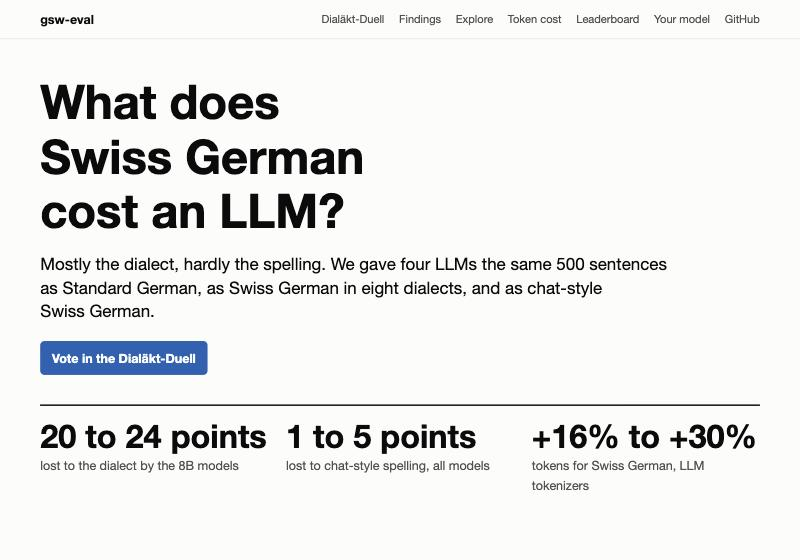
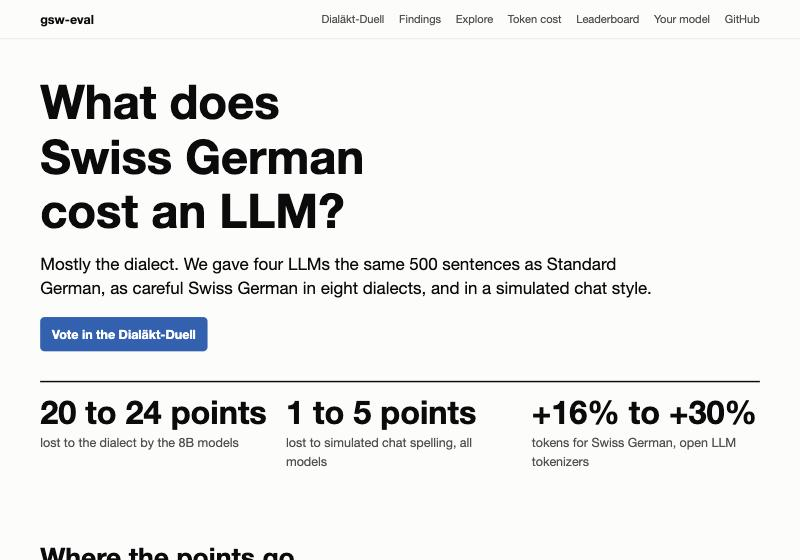
Website: same careful claims, stress test table, credit Chatbot Arena
Also notes which forms of the SwissDial sentences are our own changes.

Changed region(s): [[0.0312, 0.4554, 0.9688, 0.8804], [0.0312, 0.9714, 0.375, 1.0]]

diff --git a/site/index.html b/site/index.html
@@ -29,20 +29,24 @@
 
 <section class="hero wrap">
   <h1>What does Swiss German cost an LLM?</h1>
-  <p class="lead">Mostly the dialect, hardly the spelling. We gave four LLMs the same 500 sentences as Standard German, as Swiss German in eight dialects, and as chat-style Swiss German.</p>
+  <p class="lead">Mostly the dialect. We gave four LLMs the same 500 sentences as Standard German, as careful Swiss German in eight dialects, and in a simulated chat style.</p>
   <a class="cta" href="arena.html">Vote in the Dialäkt-Duell</a>
   <dl class="stats" id="stats"></dl>
 </section>
 
 <section class="wrap" id="findings">
   <h2>Where the points go</h2>
-  <p class="intro">Each model translates Swiss German into Standard German. The score is <a href="#chrf">chrF</a>, from 0 to 100. The blue line is what the dialect costs. The orange line is what chat-style spelling costs on top.</p>
+  <p class="intro">Each model translates Swiss German into Standard German. The score is <a href="#chrf">chrF</a>, from 0 to 100. The blue line is what the step to careful Swiss German costs. The orange line is what simulated chat spelling costs on top.</p>
   <div class="legend" aria-hidden="true">
     <span><i class="key key-dialect"></i>Dialect cost: Standard German to careful Swiss German</span>
-    <span><i class="key key-spelling"></i>Spelling cost: careful to chat-style spelling</span>
+    <span><i class="key key-spelling"></i>Spelling cost: careful to simulated chat spelling</span>
   </div>
   <div class="chart" id="cost-chart"></div>
   <div class="notes" id="findings-notes"></div>
+
+  <h3>How hard did we test the spelling?</h3>
+  <p class="intro">Simulated chat spelling mostly changes case and punctuation, so it is a mild test. Here is what stronger spelling damage costs, on the first 100 test sentences. Numbers are chrF points lost compared with careful spelling.</p>
+  <div class="scroll"><table class="data" id="dose-table"></table></div>
 </section>
 
 <section class="wrap" id="explore">
@@ -142,9 +146,9 @@
   <h3 id="chrf">How we measure</h3>
   <dl class="defs">
     <dt>chrF</dt><dd>How many character sequences of the output match the reference, from 0 to 100. It suits a task where most errors are partial word forms.</dd>
-    <dt>Dialect cost</dt><dd>Score on Standard German input minus score on careful Swiss German.</dd>
+    <dt>Dialect cost</dt><dd>Score on Standard German input minus score on careful Swiss German. It includes each writer's own careful spelling.</dd>
     <dt>Spelling cost</dt><dd>Score on careful Swiss German minus score on chat-style Swiss German.</dd>
-    <dt>Chat-style spelling</dt><dd>Careful text rewritten by rules: lower case, no punctuation, short forms. Character noise changes letters at random.</dd>
+    <dt>Simulated chat spelling</dt><dd>Careful text rewritten by rules: lower case, no punctuation, short forms. Most of this changes case and punctuation, not the words. Character noise changes letters at random.</dd>
     <dt>Identity</dt><dd>The Swiss German text copied unchanged. Every model must beat this.</dd>
   </dl>
 </section>
@@ -153,7 +157,7 @@
 
 <footer class="wrap foot">
   <p>Erik Avtandilyan, Simone Martinecz, Kelvin Myers. Course project, Essentials in Text and Speech Processing, University of Zurich, 2026. Non-commercial.</p>
-  <p>Data: <a href="https://arxiv.org/abs/2103.11401">SwissDial</a> (Dogan-Schönberger, Mäder and Hofmann, 2021; ETH Zürich; CC BY-NC 4.0), shown here with model outputs. <a href="https://arxiv.org/abs/2311.16865">Swiss German NTREX</a> (Aepli et al., 2023), scores only. Tokenization by <a href="https://github.com/huggingface/tokenizers.js">tokenizers.js</a>.</p>
+  <p>Data: <a href="https://arxiv.org/abs/2103.11401">SwissDial</a> (Dogan-Schönberger, Mäder and Hofmann, 2021; ETH Zürich; CC BY-NC 4.0), shown with model outputs. The chat-style and noise versions are our own changes. <a href="https://arxiv.org/abs/2311.16865">Swiss German NTREX</a> (Aepli et al., 2023), scores only. Tokenization by <a href="https://github.com/huggingface/tokenizers.js">tokenizers.js</a>.</p>
 </footer>
 
 <div id="tip" class="tip" hidden></div>

diff --git a/site/js/main.js b/site/js/main.js
@@ -4,7 +4,7 @@
 import { costChart } from "./chart.js";
 import { explorer } from "./explorer.js";
 import { el, ofModel, pct } from "./format.js";
-import { dialectTable, leaderboard, taxTable } from "./tables.js";
+import { dialectTable, doseTable, leaderboard, taxTable } from "./tables.js";
 import { tokenChecker } from "./tokens.js";
 
 const ENCODERS = ["XLM-R", "SwissBERT"];
@@ -21,8 +21,8 @@ function headlineStats(summary, models) {
   const llms = summary.tax.filter((t) => !ENCODERS.includes(t.tokenizer)).map((t) => t.tax.value);
   const stats = [
     [`${range(small)} points`, "lost to the dialect by the 8B models"],
-    [`${range(spelling)} points`, "lost to chat-style spelling, all models"],
-    [`${pct(Math.min(...llms))} to ${pct(Math.max(...llms))}`, "tokens for Swiss German, LLM tokenizers"],
+    [`${range(spelling)} points`, "lost to simulated chat spelling, all models"],
+    [`${pct(Math.min(...llms))} to ${pct(Math.max(...llms))}`, "tokens for Swiss German, open LLM tokenizers"],
   ];
   document.querySelector("#stats").replaceChildren(
     ...stats.map(([value, label]) => el("div", {}, el("dt", { text: label }), el("dd", { text: value }))),
@@ -38,12 +38,12 @@ function findingNotes(models) {
   const german = (m) => m.scores.de_input.value;
   const notes = [
     [
-      "Swiss training data helps",
-      `At the same size, Apertus beats Llama by ${(clean(apertus) - clean(llama)).toFixed(1)} points on careful Swiss German. Gemma is three times larger, yet only ${(clean(gemma) - clean(apertus)).toFixed(1)} points ahead of Apertus.`,
+      "The Swiss-focused model leads at 8B",
+      `At the same size, Apertus scores ${(clean(apertus) - clean(llama)).toFixed(1)} points above Llama on careful Swiss German. Gemma is three times larger, yet only ${(clean(gemma) - clean(apertus)).toFixed(1)} points above Apertus. The models differ in more than their Swiss data, so this is not a clean test of it.`,
     ],
     [
-      "A frontier model helps most",
-      `Claude scores ${clean(claude).toFixed(1)} on Swiss German, Apertus ${clean(apertus).toFixed(1)}. On Standard German they are level: ${german(claude).toFixed(1)} and ${german(apertus).toFixed(1)}. Claude's lead is about the dialect.`,
+      "Claude's lead is on dialect input",
+      `Claude scores ${clean(claude).toFixed(1)} on Swiss German, Apertus ${clean(apertus).toFixed(1)}. On Standard German they are level: ${german(claude).toFixed(1)} and ${german(apertus).toFixed(1)}.`,
     ],
     [
       "A small cost can mislead",
@@ -61,7 +61,7 @@ function taxNote(summary) {
     .map((t) => t.texting_change * 100);
   const biggest = Math.max(...change.map(Math.abs));
   document.querySelector("#tax-note").textContent =
-    `Chat-style spelling changes the token count by at most ${biggest.toFixed(1)}% for LLM tokenizers, so the extra tokens come from the dialect. XLM-R and SwissBERT are encoders, not LLMs.`;
+    `Simulated chat spelling changes the token count by at most ${biggest.toFixed(1)}% for these open LLM tokenizers. XLM-R and SwissBERT are encoders, not LLMs.`;
 }
 
 async function main() {
@@ -76,6 +76,7 @@ async function main() {
     document.querySelector("#tip"),
   );
   findingNotes(models);
+  doseTable(summary);
   taxTable(summary);
   taxNote(summary);
   leaderboard(summary);

diff --git a/site/js/arena-text.js b/site/js/arena-text.js
@@ -46,9 +46,9 @@ export const TEXT = {
     agreement: (share, n) => `Die automatische Metrik chrF wählt in ${share}% von ${n} klaren Duellen dieselbe Antwort wie die Menschen.`,
     download: "Alle Stimmen herunterladen (CSV)",
     aboutTitle: "Worum geht es?",
-    aboutText: "Das Duell gehört zu gsw-eval, einem offenen Benchmark für Sprachmodelle auf geschriebenem Schweizerdeutsch an der Universität Zürich. Automatische Metriken wissen nicht, was ein Dialektsatz wirklich bedeutet. Das wisst nur ihr.",
+    aboutText: "Das Duell gehört zu gsw-eval, einem offenen Benchmark für Sprachmodelle auf geschriebenem Schweizerdeutsch an der Universität Zürich. Automatische Metriken wissen nicht, was ein Dialektsatz wirklich bedeutet. Das wisst nur ihr. Die Idee der blinden Duelle stammt von Chatbot Arena (Chiang et al., 2024).",
     privacyText: "Wir speichern deine Stimme, deine Angaben zum Dialekt und eine zufällige Kennung aus deinem Browser. Keine IP-Adresse, kein Konto. Die Stimmen werden als offener Datensatz veröffentlicht.",
-    foot: "Erik Avtandilyan, Simone Martinecz, Kelvin Myers. Kursprojekt, Universität Zürich, 2026. Nicht kommerziell. Sätze: SwissDial (ETH Zürich, CC BY-NC 4.0).",
+    foot: "Erik Avtandilyan, Simone Martinecz, Kelvin Myers. Kursprojekt, Universität Zürich, 2026. Nicht kommerziell. Sätze: SwissDial (ETH Zürich, CC BY-NC 4.0), die Chat-Versionen sind von uns verändert.",
     errors: {
       closed: "Die Abstimmung ist noch nicht offen.",
       limit: "Für heute hast du genug getan. Danke! Komm morgen wieder.",
@@ -107,9 +107,9 @@ export const TEXT = {
     agreement: (share, n) => `The automatic metric chrF picks the same answer as people in ${share}% of ${n} clear duels.`,
     download: "Download all votes (CSV)",
     aboutTitle: "What is this?",
-    aboutText: "The duel is part of gsw-eval, an open benchmark of language models on written Swiss German at the University of Zurich. Automatic metrics don't know what a dialect sentence really means. You do.",
+    aboutText: "The duel is part of gsw-eval, an open benchmark of language models on written Swiss German at the University of Zurich. Automatic metrics don't know what a dialect sentence really means. You do. The idea of blind duels comes from Chatbot Arena (Chiang et al., 2024).",
     privacyText: "We store your vote, your dialect answers and a random ID from your browser. No IP address, no account. The votes are published as an open dataset.",
-    foot: "Erik Avtandilyan, Simone Martinecz, Kelvin Myers. Course project, University of Zurich, 2026. Non-commercial. Sentences: SwissDial (ETH Zürich, CC BY-NC 4.0).",
+    foot: "Erik Avtandilyan, Simone Martinecz, Kelvin Myers. Course project, University of Zurich, 2026. Non-commercial. Sentences: SwissDial (ETH Zürich, CC BY-NC 4.0); the chat versions are our changes.",
     errors: {
       closed: "Voting is not open yet.",
       limit: "That's enough for today. Thank you! Come back tomorrow.",

diff --git a/site/js/tables.js b/site/js/tables.js
@@ -138,3 +138,27 @@ export function taxTable(summary) {
   }
   document.querySelector("#tax-table").replaceChildren(el("thead", {}, head), body);
 }
+
+export function doseTable(summary) {
+  const models = summary.test.filter((r) => summary.dose.some((row) => r.model in row.loss));
+  const head = el(
+    "tr",
+    {},
+    el("th", { scope: "col", text: "Input" }),
+    el("th", { scope: "col", text: "Words changed" }),
+    ...models.map((m) => el("th", { scope: "col", text: m.label })),
+  );
+  const body = el("tbody");
+  for (const row of summary.dose) {
+    body.append(
+      el(
+        "tr",
+        {},
+        el("td", { text: row.label }),
+        el("td", { text: `${Math.round(row.words_changed * 100)}%` }),
+        ...models.map((m) => el("td", { text: row.loss[m.model]?.toFixed(1) ?? "" })),
+      ),
+    );
+  }
+  document.querySelector("#dose-table").replaceChildren(el("thead", {}, head), body);
+}

diff --git a/tests/test_site.py b/tests/test_site.py
@@ -65,6 +65,7 @@ def test_build_summary_and_write(tmp_path: Path) -> None:
     assert row["dialects"] == {"BE": 80.1}
     assert summary["ntrex"] == []
     assert summary["tax"][0]["texting_change"] == 0.0
+    assert summary["dose"] == []
 
     paths = write_site_data(summary, {"BE": [{"id": "1"}]}, tmp_path / "data")
     assert {p.name for p in paths} == {"summary.json", "BE.json"}

diff --git a/README.md b/README.md
@@ -9,7 +9,8 @@ than the spelling?**
 gsw-eval is an open benchmark for LLMs on written Swiss German. It feeds a model the same sentences
 as Standard German, as careful Swiss German in eight dialects, and as chat-style Swiss German. The
 difference between those scores splits the cost into a dialect part and a spelling part, in quality
-and in tokens, with confidence intervals. The short answer: mostly the dialect, hardly the spelling.
+and in tokens, with confidence intervals. The short answer so far: mostly the dialect. The spelling
+result is under test with real texting from native speakers.
 
 | Results website | Dialäkt-Duell |
 |---|---|
@@ -69,10 +70,11 @@ Every test sentence reaches a model in four forms. The Standard German reference
 |---|---|---|
 | `de_input` | The reference itself | Upper bound: no dialect, no spelling problem |
 | `clean` | Careful Swiss German | Dialect only |
-| `texting` | `clean` rewritten by [texting rules](rules/) | Dialect and spelling |
+| `texting` | `clean` rewritten by [texting rules](rules/) | Dialect and simulated chat spelling |
 | `char_noise` | `clean` with random letter changes | Dialect and synthetic noise |
 
-**Dialect cost** is `de_input` minus `clean`. **Spelling cost** is `clean` minus `texting`. Both come
+**Dialect cost** is `de_input` minus `clean`, and includes each writer's careful spelling.
+**Spelling cost** is `clean` minus `texting`. Both come
 from the same sentences, and a cluster bootstrap over sentences gives their intervals. The
 **identity** baseline copies the Swiss German text unchanged and is the lower bound.
 
@@ -103,7 +105,8 @@ crashed run resumes and all scores can be recomputed for free.
 
 ## The Dialäkt-Duell
 
-A visitor sees a Swiss German sentence and two anonymous answers from different models. After the
+Inspired by [Chatbot Arena](https://arxiv.org/abs/2403.04132), a visitor sees a Swiss German
+sentence and two anonymous answers from different models. After the
 vote, the models and the reference appear. Votes feed a Bradley-Terry ranking with bootstrap
 intervals, and show how often chrF picks the same answer as people.
 

diff --git a/site/data/README.md b/site/data/README.md
@@ -3,3 +3,6 @@ Generated by `gsw-eval site`. Do not edit by hand.
 `sentences/` contains sentences from SwissDial (Dogan-Schönberger, Mäder and Hofmann, 2021),
 © ETH Zürich, CC BY-NC 4.0, https://creativecommons.org/licenses/by-nc/4.0/, together with model
 outputs. Non-commercial use only.
+
+Changes to the original: the chat-style and character-noise forms are our own rewrites of the
+Swiss German sentences, and the model outputs are new.
